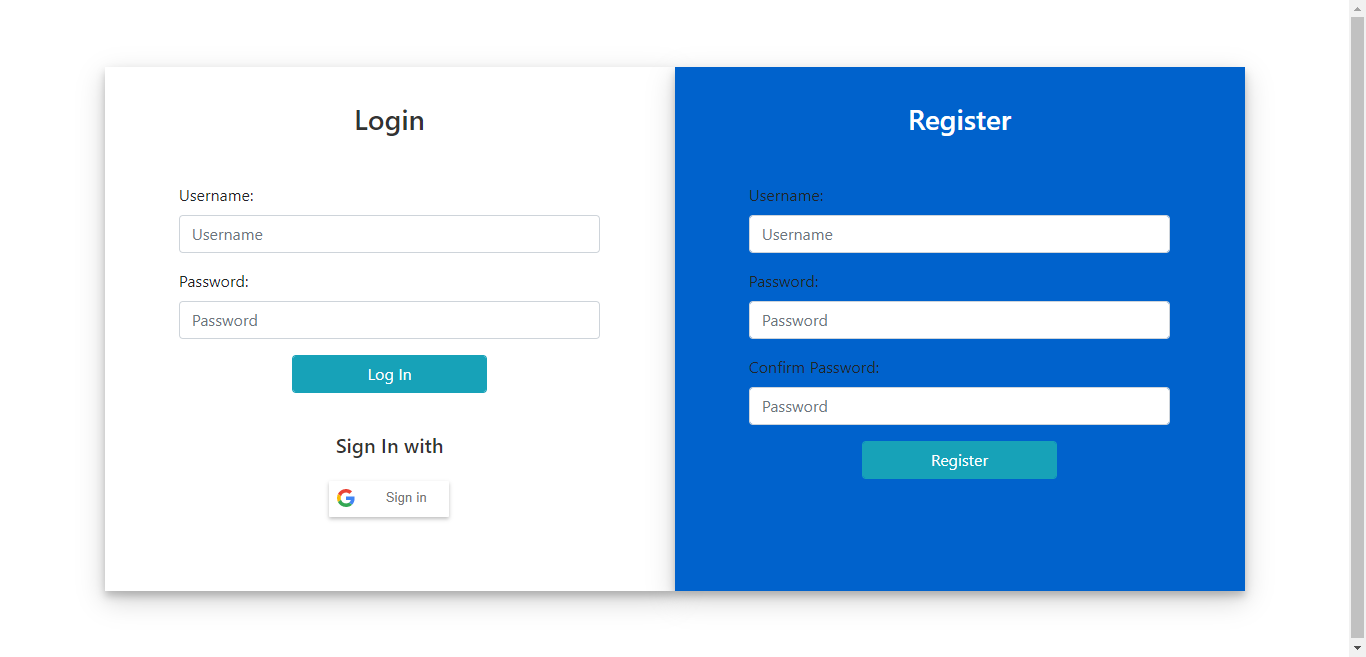
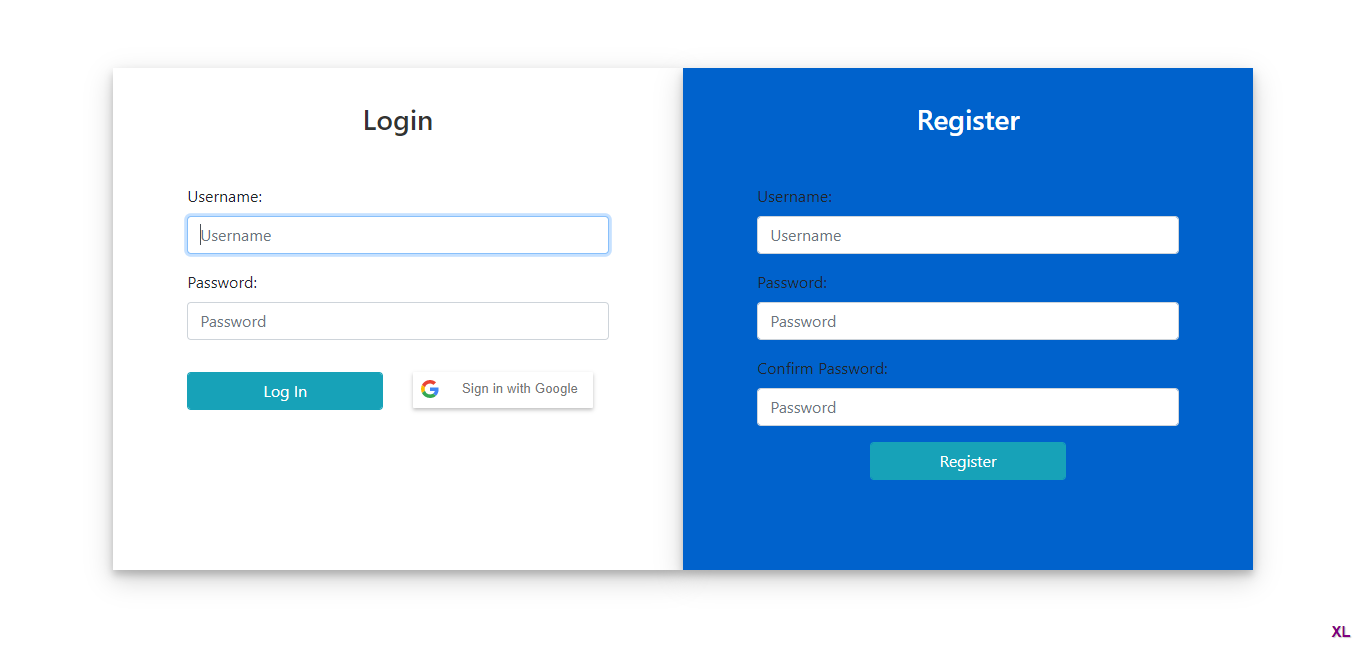
commit

diff --git a/src/main/resources/templates/login.html b/src/main/resources/templates/login.html
@@ -32,21 +32,16 @@
                         <div class="form-group"> <label for="username">Username</label>: <input type="text" id="1_username" name="username" class="form-control" autofocus="autofocus" placeholder="Username"/> </div>
                         <div class="form-group"> <label for="password">Password</label>: <input type="password" id="1_password" name="password" class="form-control" placeholder="Password"/> </div>
                         <div class="form-group">
-                            <div class="row">
-                                <div class="offset-md-3 col-sm-6">
+                            <div class="row pt-3">
+                                <div class="col-sm-6">
                                     <input type="submit" name="login-submit" id="login-submit" class="form-control btn btn-info" value="Log In"/>
+                                </div>
+                                <div class="col-sm-6">
+                                    <div class="g-signin2" data-longtitle="true" data-onsuccess="onSignIn" ></div>
                                 </div>
                             </div>
                         </div>
-                        <div class="pt-4">
-                            <h5>Sign In with</h5>
-                            <div class="row pt-3">
-                                <div class="g-signin2 offset-md-4 col-md-4" data-onsuccess="onSignIn"></div>
-                                <!--<a href="#" onclick="signOut();">Sign out</a>-->
-                            </div>
-                        </div>
                     </form>
-
                 </div>
                 <div class="col-md-6 login-form-2">
                     <h3>Register</h3>
@@ -70,6 +65,10 @@
         <script type="text/javascript" th:src="@{/webjars/bootstrap/4.5.0/js/bootstrap.min.js}"></script>
         <script>
             var flag = [[${logout_flag}]];
+//            function onSignInFailure() {
+//                flag = false;
+//            }
+
             function onSignIn(googleUser) {
                 if (!flag) {
                     var profile = googleUser.getBasicProfile();
@@ -88,6 +87,10 @@
 //                    window.location = "/app/login";
                 }
             }
+
+//            window.onload = function () {
+//                flag = false;
+//            }
 
             function signOut() {
                 var auth2 = gapi.auth2.getAuthInstance();

diff --git a/src/main/java/com/github/prabhuprabhakaran/minify/controller/service/LoginService.java b/src/main/java/com/github/prabhuprabhakaran/minify/controller/service/LoginService.java
@@ -16,9 +16,8 @@ import org.springframework.security.core.userdetails.UserDetails;
 import org.springframework.security.core.userdetails.UserDetailsService;
 import org.springframework.security.core.userdetails.UsernameNotFoundException;
 import org.springframework.security.crypto.password.PasswordEncoder;
-import org.springframework.security.oauth2.client.authentication.OAuth2AuthenticationToken;
-import org.springframework.security.oauth2.client.authentication.OAuth2LoginAuthenticationToken;
 import org.springframework.stereotype.Service;
+import org.springframework.util.ObjectUtils;
 
 /**
  *
@@ -32,16 +31,24 @@ public class LoginService implements UserDetailsService {
     @Autowired
     PasswordEncoder passwordEncoder;
 
-    public boolean registerNewUser(String username, String password) {
+    public boolean registerNewUser(String username, String password, String Id) {
         boolean lReturn = false;
         Optional<Users> findByUsername = userRepository.findByUsername(username.toLowerCase());
         if (!findByUsername.isPresent()) {
             Users users = new Users();
             users.setUsername(username.toLowerCase());
             users.setToken(UUID.randomUUID().toString());
-            users.setPassword(passwordEncoder.encode(password));
-            userRepository.save(users);
-            lReturn = true;
+            if (ObjectUtils.isEmpty(password) && ObjectUtils.isEmpty(Id)) {
+                lReturn = false;
+            } else {
+                if (!ObjectUtils.isEmpty(password)) {
+                    users.setPassword(passwordEncoder.encode(password));
+                } else if (!ObjectUtils.isEmpty(Id)) {
+                    users.setPassword(Id);
+                }
+                userRepository.save(users);
+                lReturn = true;
+            }
         } else if (findByUsername.isPresent()) {
             Users users = findByUsername.get();
             try {
@@ -64,7 +71,7 @@ public class LoginService implements UserDetailsService {
             SecurityContextHolder.getContext().setAuthentication(new UsernamePasswordAuthenticationToken(lUser, "", lUser.getAuthorities()));
             lReturn = true;
         } else {
-            boolean registerNewUser = registerNewUser(username, id);
+            boolean registerNewUser = registerNewUser(username, "", id);
             if (registerNewUser) {
                 lReturn = true;
             }

diff --git a/src/main/java/com/github/prabhuprabhakaran/minify/controller/LoginController.java b/src/main/java/com/github/prabhuprabhakaran/minify/controller/LoginController.java
@@ -42,9 +42,7 @@ public class LoginController {
         if (logout.equals("true")) {
             model.addAttribute("logout", "You have been logged out.");
             model.addAttribute("logout_flag", true);
-            System.out.println("logout_flag=true");
         } else {
-            System.out.println("logout_flag=false");
             model.addAttribute("logout_flag", false);
         }
         return "login";
@@ -64,7 +62,7 @@ public class LoginController {
     public String register(@ModelAttribute Users user, Model model) {
         boolean created = false;
         try {
-            created = loginService.registerNewUser(user.getUsername(), user.getPassword());
+            created = loginService.registerNewUser(user.getUsername(), user.getPassword(), "");
             if (created) {
                 model.addAttribute("success", "Registered Sucessfully");
             } else {

diff --git a/Readme.md b/Readme.md
@@ -1,4 +1,4 @@
-# **Minify - URL Shorten API**
+# ![](images/logo_128.png)**Minify - URL Shorten API**
 
 Minify is a URL Shortening API, which works on the following Authentication mechanisms
 
@@ -31,5 +31,18 @@ Redirection has been done by the shorten URL
 
 ```
 http://localhost:8081/r/GkPNMK
+```
+
+#### Compilation and Execution
+
+```
+ProjectDir> mvn clean install
+ProjectDir> java -jar target/Minify-1.0.0-SNAPSHOT.jar
+```
+
+Go to the below URL in Browser
+
+```
+http://localhost:8081
 ```
 
